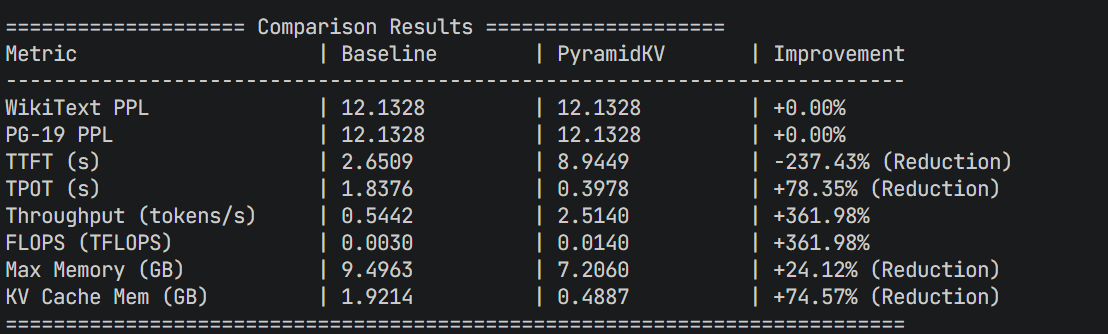
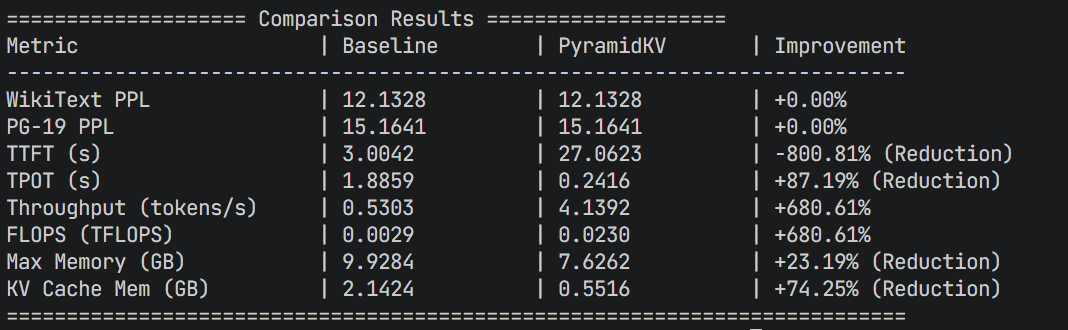
修复pg-19数据集无法正常加载的情况

diff --git a/benchmark_pyramid_pythia.py b/benchmark_pyramid_pythia.py
@@ -147,7 +147,7 @@ def load_data(tokenizer):
         print(f"Failed to load WikiText: {e}")
         wikitext_text = "This is a fallback text for WikiText. " * 1000
 
-    # PG-19 (Simulated with extended WikiText if fails)
+    # PG-19
     try:
         # Try loading a small subset or streaming
         pg19 = load_dataset("deepmind/pg19", split="validation", streaming=True, trust_remote_code=True)
@@ -155,9 +155,32 @@ def load_data(tokenizer):
         pg19_sample = next(pg19_iter)['text']
         print(f"PG-19 sample loaded (len: {len(pg19_sample)})")
     except Exception as e:
-        print(f"Failed to load PG-19 (using extended WikiText): {e}")
-        # Create a long text from WikiText (repeat 5 times ~ 1M chars)
-        pg19_sample = wikitext_text * 5
+        print(f"Failed to load PG-19: {e}")
+        print("Falling back to WikiText-103 as proxy...")
+        try:
+            wt103 = load_dataset("wikitext", "wikitext-103-raw-v1", split="test", streaming=True)
+            wt103_iter = iter(wt103)
+            # Skip first few articles to avoid overlap with WikiText-2 (which is a subset)
+            for _ in range(10): 
+                try:
+                    next(wt103_iter)
+                except StopIteration:
+                    break
+            
+            pg19_sample = ""
+            # Accumulate enough text
+            while len(pg19_sample) < 100000:
+                try:
+                    pg19_sample += next(wt103_iter)['text'] + "\n"
+                except StopIteration:
+                    break
+            print(f"WikiText-103 loaded as proxy (len: {len(pg19_sample)})")
+        except Exception as e2:
+            print(f"Failed to load WikiText-103: {e2}")
+            # Create a long text from WikiText (repeat 5 times ~ 1M chars)
+            # Offset to avoid identical evaluation if both look at start
+            print("Using extended WikiText-2 with offset...")
+            pg19_sample = (wikitext_text * 5)[10000:]
         
     return wikitext_text, pg19_sample
 
